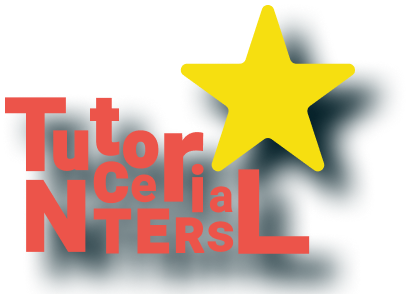
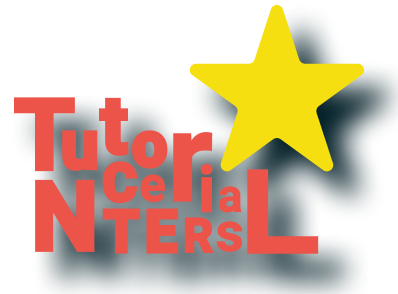
modified IndexFavorite for mobile design

diff --git a/components/pages/Index/IndexFavorite.vue b/components/pages/Index/IndexFavorite.vue
@@ -1,15 +1,15 @@
 <template>
   <div class="index-favorite">
     <div class="container">
-      <div class="row">
-        <div class="col-6">
-          <div class="text">
+      <div class="row flex-column-reverse flex-md-row">
+        <div class="col-12 col-md-6 mb-4 mb-md-0">
+          <div class="text text-center text-md-left">
             <h2>精選收藏</h2>
             <p>心儀補習社任意收藏</p>
             <p>容後再次找回</p>
           </div>
         </div>
-        <div class="col-6">
+        <div class="col-12 col-md-6 text-center text-md-left">
           <img src="/media/pages/index/tutorial-center.png" alt="video" height="309" width="410">
         </div>
       </div>
@@ -36,6 +36,11 @@ export default {
     float: right;
     padding-top: 3rem;
     margin-right: 5rem;
+    @include media-breakpoint-down(sm) {
+      width: 100%;
+      margin: 0;
+      padding: 0;
+    }
     h2 {
       color: #FFFFFF;
       font-weight: bold;
@@ -47,6 +52,14 @@ export default {
       margin: 0;
       font-size: 25px;
       line-height: 29px;
+    }
+  }
+  img {
+    @include media-breakpoint-down(sm) {
+      transform: translate(50px, 0);
+    }
+    @include media-breakpoint-down(xs) {
+      transform: translate(15px, 0);
     }
   }
 }
